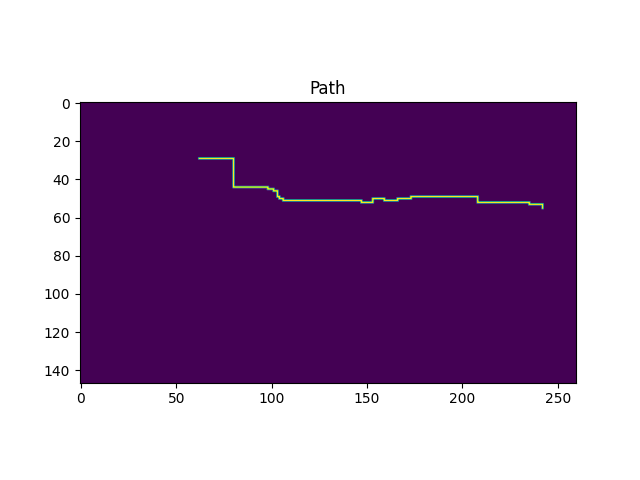
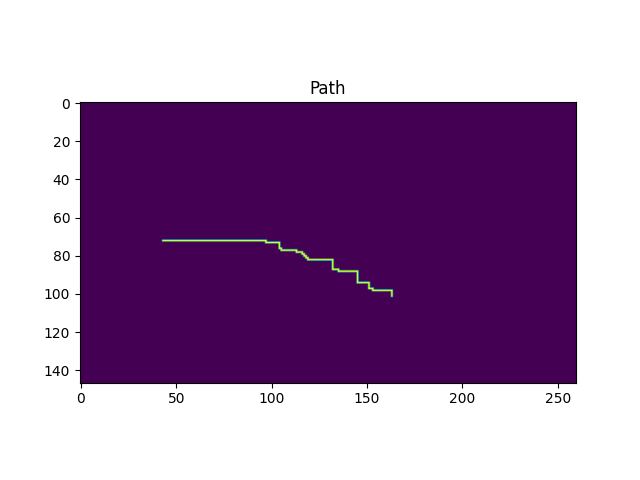
smoth route + web

diff --git a/new_picture.py b/new_picture.py
@@ -10,14 +10,16 @@ from math import floor, sqrt
 import numpy as np
 from matplotlib import pyplot as plt
 from numpy import array
+from scipy.interpolate import CubicSpline
 
 from bf import Graph, maximize_matrix, fill_matrix_none, coordinates_to_maximized
 from inferer_land import class_land
 from inferer_road import class_road
 from Astar import astar_path
+from spline import merge_sort
 
 
-def generated_sum_pic(origin:str, height_root:str, output_img:str, start:tuple, end:tuple):
+def routing_calculation(origin:str, height_root:str, output_img:str, start:tuple, end:tuple):
     # Read road image
     road = class_road(".\\outputs\\test\\cfg.yaml", origin, ".\\input\\test9_result.png")
     land = class_land(".\\land\\outputs\\test\\cfg_land.yaml", origin, ".\\input\\test9_resultL.png")
@@ -27,25 +29,19 @@ def generated_sum_pic(origin:str, height_root:str, output_img:str, start:tuple, 
     if land is None:
         logging.error("Failed to read input image file")
 
-    # road_orig = cv.cvtColor(road, cv.COLOR_BGR2GRAY)
+    road_orig = cv.cvtColor(road, cv.COLOR_BGR2GRAY)
     land_orig = cv.cvtColor(land, cv.COLOR_BGR2GRAY)
 
     # roi = land_orig
-
+    #
     # roi[road_orig == 77] = 77
 
     # cv.imwrite(output_img, roi)
 
-    # Coordinates
-    # height, width = land_orig.shape
-    # deg_pre_pixel_long = abs((rd[0] - lu[0])/width)
-    # deg_pre_pixel_lat = abs((lu[1] - rd[1])/height)
     start_tuple = (start[1], start[0])
     end_tuple = end
     width_shrinkage = 10
     height_shrinkage = 10
-    # start_tuple = int((lu[0] - start[0])//deg_pre_pixel_long), int((rd[1] - start[1])//deg_pre_pixel_lat)
-    # end_tuple = int((lu[0]-end[0])//deg_pre_pixel_long), int((rd[1] - end[1])//deg_pre_pixel_lat)
     end_tuples: List[tuple] = list()
     end_tuples.append(end_tuple)
     matrix = block2matrix(land_orig, height_root)
@@ -56,6 +52,54 @@ def generated_sum_pic(origin:str, height_root:str, output_img:str, start:tuple, 
     print(datetime.datetime.now())
     result = graph.find_path(start_maximized, finish_maximized)
     print(result)
+    sorted_list = result.copy()
+    # what diraction
+    dx = abs(end[0]-start[0])
+    dy = abs(end[1] - start[1])
+    position = False # True - вертекальное положение дороги,False - горизонтальное
+    # horizontal
+    if dx > dy:
+        merge_sort(sorted_list, 0, len(sorted_list))
+    # vertical
+    else:
+        sorted_list = list()
+        position = True
+        for point in result:
+            sorted_list.append((point[1], point[0]))
+        merge_sort(sorted_list, 0, len(sorted_list))
+    # axis x in increase
+    sorted_copy = sorted_list.copy()
+    for i in range(len(sorted_list)-1):
+        if sorted_list[i][0] == sorted_list[i+1][0]:
+            sorted_copy.remove(sorted_list[i+1])
+    sorted_list = sorted_copy.copy()
+
+    # interpolation
+    list_x = list()
+    list_y = list()
+    for i in sorted_list:
+        list_x.append(i[0])
+        list_y.append(i[1])
+    new_coord_x = list()
+    new_coord_y = list()
+    step = 5
+    for i in range(0, len(list_x), step):
+        new_coord_x.append(list_x[i])
+        new_coord_y.append(list_y[i])
+    if new_coord_x[-1] != list_x[-1] or new_coord_y[-1] != list_y[-1]:
+        new_coord_x.append(list_x[-1])
+        new_coord_y.append(list_y[-1])
+    f = CubicSpline(new_coord_x, new_coord_y, bc_type='natural')
+    new_new_y = []
+    for i in range(len(list_x)):
+        new_new_y.append(int(f(list_x[i])))
+    result = list()
+    for i in range(len(list_x)):
+        if position:
+            result.append((new_new_y[i], list_x[i]))
+        else:
+            result.append((list_x[i], new_new_y[i]))
+
     print(datetime.datetime.now())
     new_mat = fill_matrix_none(width_shrinkage, height_shrinkage, matrix, result)
     matrix = [[0 for _ in range(len(new_mat[0]))] for _ in range(len(new_mat))]
@@ -74,9 +118,9 @@ def generated_sum_pic(origin:str, height_root:str, output_img:str, start:tuple, 
     color_mask = np.zeros_like(image, dtype=np.uint8)
     color_mask[np.squeeze(mask == 100), :] = (0, 0, 255)
     #result = cv.addWeighted(land, 0.5, color_mask, 0.5, 1.0)
-    result = cv.addWeighted(image, 0.5, color_mask, 0.5, 1.0)
+    result_img = cv.addWeighted(image, 0.5, color_mask, 0.5, 1.0)
     print("Saving result to '{0}'...".format(output_img))
-    cv.imwrite(output_img, result)
+    cv.imwrite(output_img, result_img)
 
 def block2matrix(image_land, image_height):
     im_height = cv.imread(image_height)
@@ -111,30 +155,6 @@ def block2matrix(image_land, image_height):
     matrix_list = matrix.tolist()
     return matrix_list
 
-# def main() -> int:
-#     # Create argument parser
-#     parser = argparse.ArgumentParser(description='Sum images')
-#     parser.add_argument('--shot', dest='image', required=True, type=str, default="",
-#                         help="Path to dataset root directory")
-#     parser.add_argument('--height', dest='height', required=True, type=str, default="",
-#                         help="Path to dataset root directory")
-#     parser.add_argument('--output-img', dest='output_img', required=True, type=str, default="", metavar="FILE",
-#                         help="path to output image")
-#     parser.add_argument('--left_up', dest='left_up_point', required=True, type=tuple, default="", metavar="",
-#                         help="path to output image")
-#     parser.add_argument('--right_down', dest='right_down_point', required=True, type=tuple, default="", metavar="",
-#                         help="path to output image")
-#     parser.add_argument('--start', dest='start_point', required=True, type=tuple, default="", metavar="",
-#                         help="path to output image")
-#     parser.add_argument('--end', dest='end_point', required=True, type=tuple, default="", metavar="",
-#                         help="path to output image")
-#     args = parser.parse_args()
-#
-#     # generated_sum_pic(args.road_root, args.land_root, args.output_img)
-#     # generated_sum_pic(".\\input\\test9_orig.png",".\\input\\test6_r.png", ".\\input\\test9_l.png", ".\\input\\test6_result.png", (57.195948, 27.880420), (57.191277, 27.899967), (0,0), (0,0))
-#     print('Done.')
-#     return 0
-
 if __name__ == '__main__':
-    generated_sum_pic(".\\input\\test3.png",".\\input\\newDem.png", ".\\input\\RESULT.png",  (628,296), (2422,552))
+    routing_calculation(".\\input\\test2.png", ".\\input\\newDem.png", ".\\input\\RESULT.png", (625, 550), (1710, 1219))
     # exit(main())
